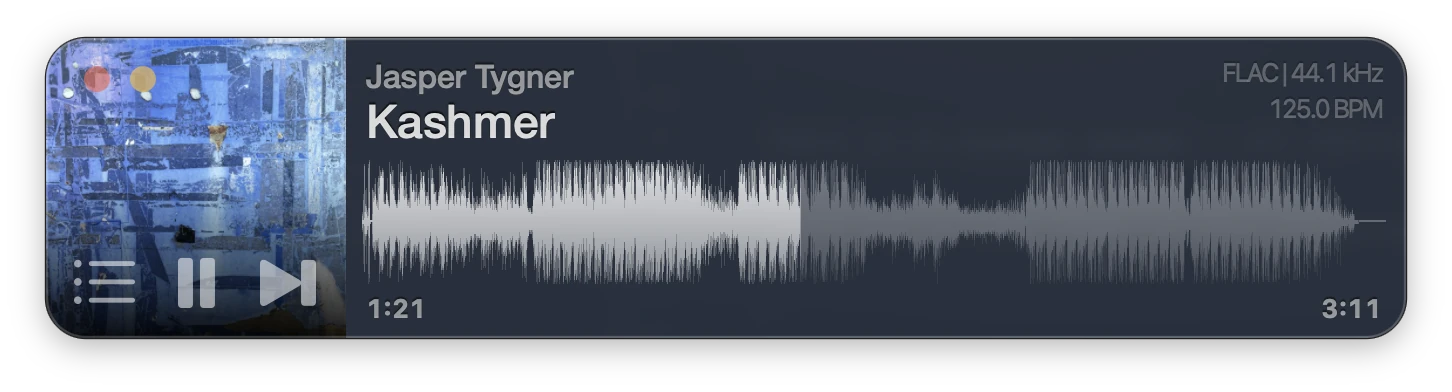
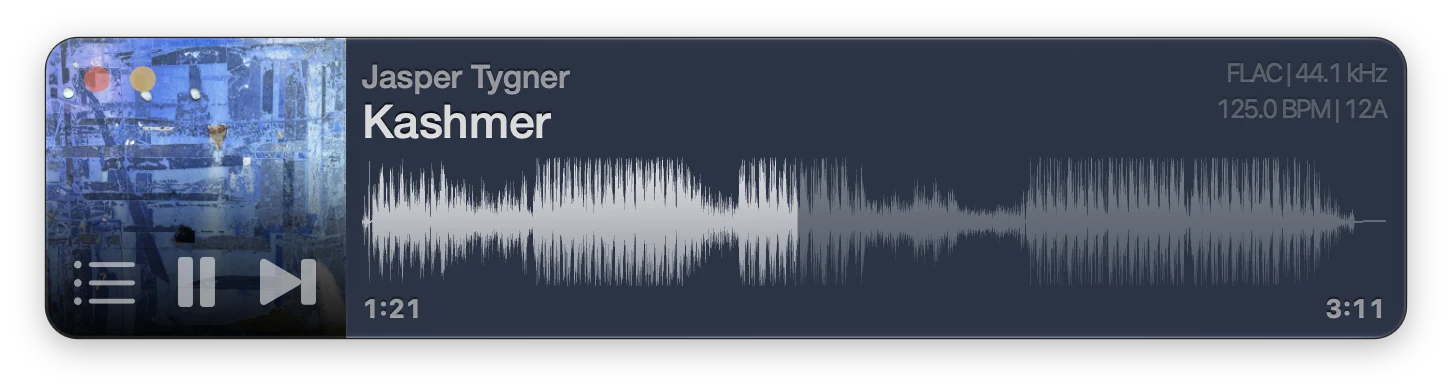
web: re-derive the screenshots, and make staleness detectable
The 1.12 rework regenerated every Assets/screenshot-*.png yesterday, and
the website kept serving August's copies — through a release deploy.
img/playlist.png was still the old playlist rather than the Mountain
People shot with the wiggle waveform, and img/player.png was stale too.

The README said img/ "is regenerated rather than edited", but nothing
regenerated it: the files were made by hand once and no check tied them
to their sources. scripts/web-build-images.sh now does the derivation,
and --check fails when a derivative no longer matches its source, so the
next time only the captures move it is caught rather than noticed.

It reproduces the hand-made img/ios.png byte for byte, which is what
says the script and the original treatment agree.

diff --git a/Assets/Web/README.md b/Assets/Web/README.md
@@ -21,8 +21,11 @@ works too.
 
 ## Where the images come from
 
-`img/` is generated from assets already in the repo, so it is regenerated rather
-than edited:
+`img/` is generated from assets already in the repo by
+`scripts/web-build-images.sh`, so it is regenerated rather than edited.
+`--check` fails when a derivative no longer matches its source: these were
+hand-made once, nothing re-made them when the captures changed, and the site
+served month-old screenshots through a release deploy before anyone noticed.
 
 | Output | Source |
 | --- | --- |
@@ -36,8 +39,8 @@ The screenshots carry the window's own rounded corners and a transparent margin,
 which is why the page shadows them with `filter: drop-shadow` rather than
 `box-shadow` — a box shadow would trace the image rectangle instead of the window.
 A simulator capture is a plain rectangle, so `img/ios.png` is given the same
-treatment by hand: round at full resolution first and scale after, or the corner
-stair-steps instead of averaging.
+treatment by the script: round at full resolution first and scale after, or the
+corner stair-steps instead of averaging.
 
 `.shot-phone` caps the phone at 300px. The window shots run to `.shot`'s 800px,
 which on a portrait image would be nearly 1800px tall.
